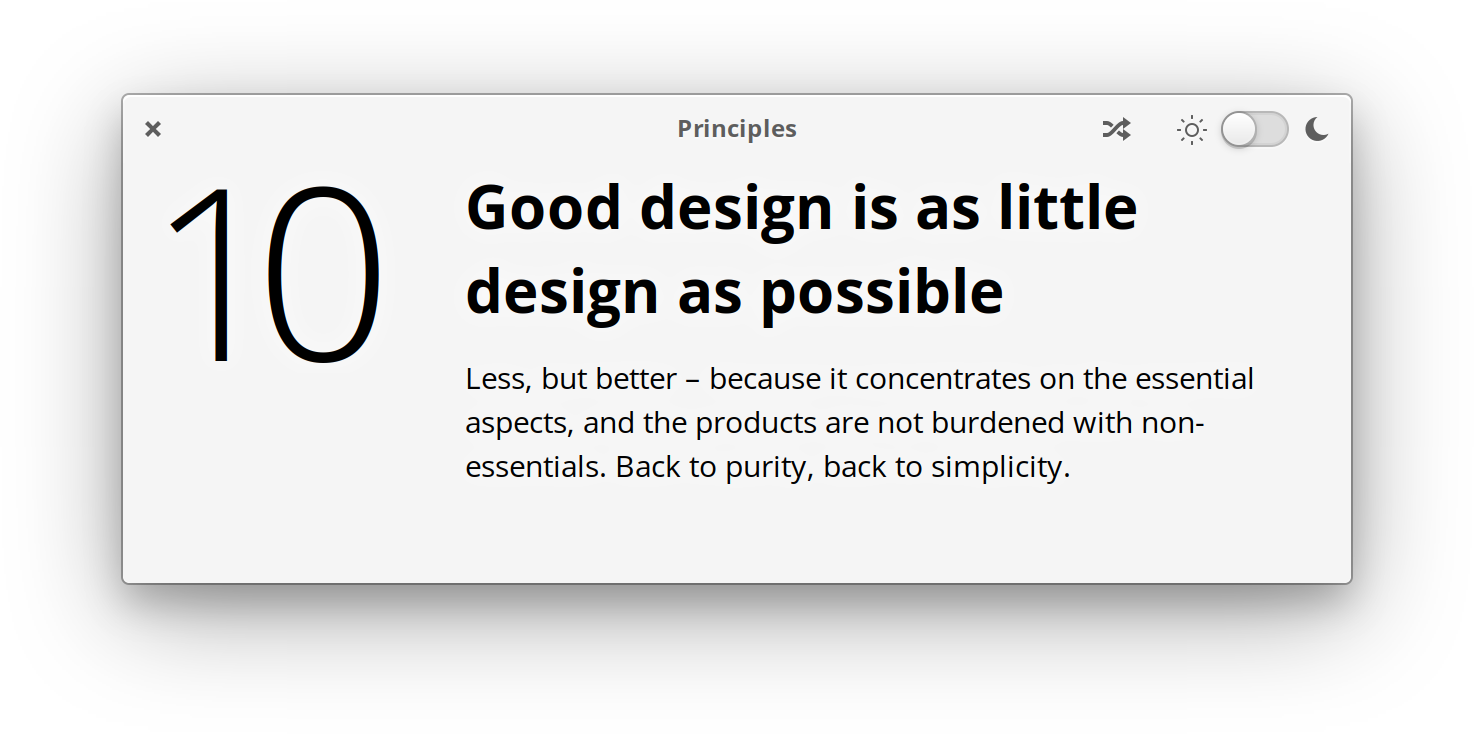
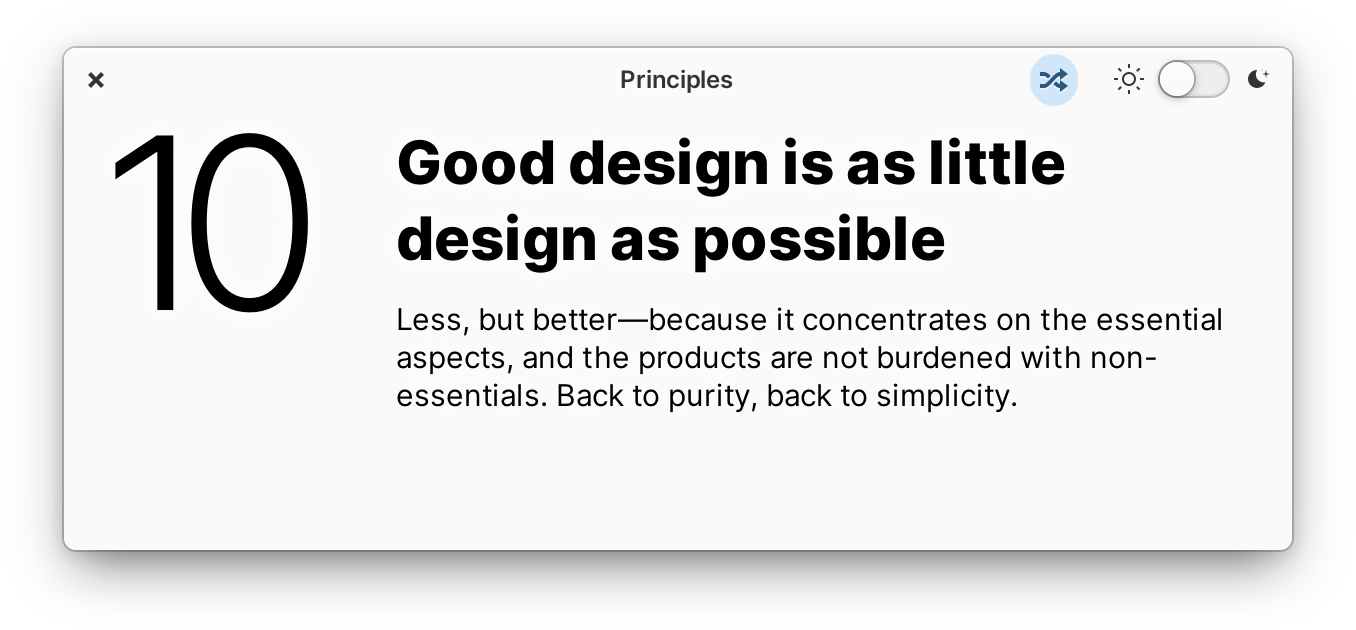
Release 2.0 (#36)
* Start prepping for Flatpak release

* Style updates

* Pre 2.0 release

* Optimised images with calibre/image-actions

* Update CI

Changed region(s): [[0.031, 0.0603, 0.9602, 0.9349]]

diff --git a/data/Application.css b/data/Application.css
@@ -1,5 +1,5 @@
 .principles,
-.titlebar {
+.default-decoration {
     transition: 500ms ease;
 }
 
@@ -17,18 +17,18 @@
     background: transparent;
 }
 
-.principles:backdrop .titlebar {
+.principles:backdrop .default-decoration {
     opacity: 0;
 }
 
 .principles:backdrop * {
-    border: 0px solid transparent;
+    border-color: transparent;
     box-shadow: 0 0 transparent;
 }
 
 .principle-title {
     font-size: 2.5em;
-    font-weight: 700;
+    font-weight: 800;
 }
 
 .principle-description {
@@ -37,7 +37,7 @@
 
 .principle-number {
     font-size: 10em;
-    font-weight: 200;
+    font-weight: 300;
     letter-spacing: -0.125em;
-    margin-top: -0.25em;
+    margin-top: -0.2em;
 }

diff --git a/README.md b/README.md
@@ -1,5 +1,3 @@
-[![Build Status](https://travis-ci.org/cassidyjames/principles.svg?branch=master)](https://travis-ci.org/cassidyjames/principles)
-
 <p align="center">
   <img src="data/icons/128.svg" alt="Icon" />
 </p>
@@ -11,7 +9,6 @@
 | ![Screenshot](data/screenshot.png)           | ![Screenshot](data/screenshot-dark.png)           |
 | -------------------------------------------- | ------------------------------------------------- |
 | ![Screenshot](data/screenshot-wallpaper.png) | ![Screenshot](data/screenshot-wallpaper-dark.png) |
-
 
 ## Remember Dieter Rams' ten principles of good design
 
@@ -39,7 +36,6 @@ According to Rams, good design:
 
 Get a simple reminder of one of these principles each time you open the app.
 
-
 ## Made for [elementary OS](https://elementary.io)
 
 Principles is designed and developed on and for [elementary OS](https://elementary.io). Purchasing through AppCenter directly supports the development and ensures instant updates straight from me. Get it on AppCenter for the best experience.
@@ -52,10 +48,10 @@ Versions of Principles may have been built and made available elsewhere by third
 
 If you want to hack on and build Principles yourself, you'll need the following dependencies:
 
-* libgtk-3-dev
-* meson
-* valac
-* libgranite-dev
+- libgtk-3-dev
+- meson
+- valac
+- libgranite-dev
 
 Run `meson build` to configure the build environment and run `ninja test` to build and run automated tests
 
@@ -68,17 +64,14 @@ To install, use `ninja install`, then execute with `com.github.cassidyjames.prin
     sudo ninja install
     com.github.cassidyjames.principles
 
-
 ## Other Platforms
 
 Principles is made for elementary OS, but may have been built and made available elsewhere by community members. These builds may have modifications or changes and **are not provided or supported by me**.
-
 
 ## Special Thanks
 
 - [Micah Ilbery](https://github.com/micahilbery) for the shiny icons
 - [Daniel Foré](https://github.com/danrabbit) for his apps to use as code examples
-
 
 -----
 
